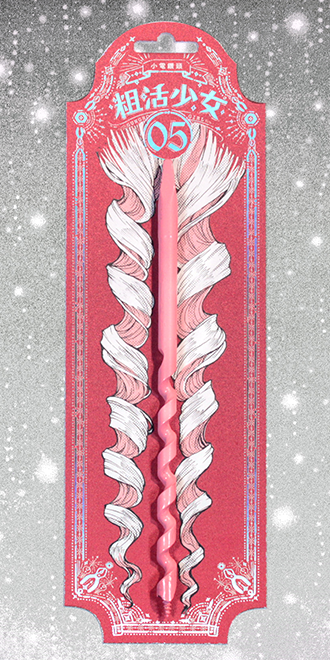
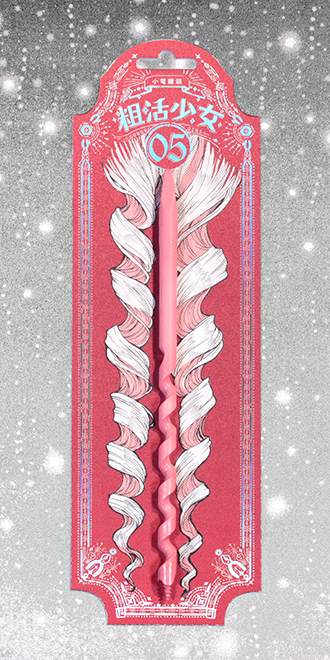
product
產品資訊修改 照片通用型

diff --git a/templates/works-pink.html b/templates/works-pink.html
@@ -10,6 +10,9 @@
     <div class="white-gradient"></div>
 </div>
 <div class="series-content">
+    <div class="item item-w2" ui-sref="products({product_id: 'pink1'})" ng-click="changePage()">
+        <img src="../image/pink/pink01-whole.png">
+    </div>
     <div class="item item-h2" ui-sref="products({product_id: 'pink10'})" ng-click="changePage()">
         <img src="../image/pink/pink10-whole.png">
     </div>
@@ -19,20 +22,21 @@
     <div class="item" ui-sref="products({product_id: 'pink14'})" ng-click="changePage()">
         <img src="../image/pink/pink14-whole.png">
     </div>
-    <div class="item item-w2" ui-sref="products({product_id: 'pink1'})" ng-click="changePage()">
-        <img src="../image/pink/pink01-whole.png">
-    </div>
-    <div class="item item-w2 item-h2" ui-sref="products({product_id: 'pink12'})" ng-click="changePage()">
-        <img src="../image/pink/pink12-whole.png">
-    </div>
     <div class="item item-w2" ui-sref="products({product_id: 'pink3'})" ng-click="changePage()">
         <img src="../image/pink/pink03-whole.png">
     </div>
     <div class="item item-h2" ui-sref="products({product_id: 'pink4'})" ng-click="changePage()">
         <img src="../image/pink/pink04-whole.png">
     </div>
-    <div class="item" ui-sref="products({product_id: 'pink8'})" ng-click="changePage()">
-        <img src="../image/pink/pink08-whole.png">
+    <div class="item item-h2" ui-sref="products({product_id: 'pink5'})" ng-click="changePage()">
+        <img src="../image/pink/pink05-whole.png">
     </div>
+    <div class="item item-w2 item-h2" ui-sref="products({product_id: 'pink12'})" ng-click="changePage()">
+        <img src="../image/pink/pink12-whole.png">
+    </div>
+    <div class="item item-h2" ui-sref="products({product_id: 'pink16'})" ng-click="changePage()">
+        <img src="../image/pink/pink16-whole.png">
+    </div>
+
 
 </div>

diff --git a/templates/works-blue.html b/templates/works-blue.html
@@ -10,13 +10,16 @@
     <div class="white-gradient"></div>
 </div>
 <div class="series-content">
-    <div class="item item-h2 item-w2" ui-sref="products({product_id: 'blue6'})" ng-click="changePage()">
-        <img src="../image/blue/blue06-whole.png">
-    </div>
     <div class="item" ui-sref="products({product_id: 'blue1'})" ng-click="changePage()">
         <img src="../image/blue/blue01-whole.png">
     </div>
     <div class="item" ui-sref="products({product_id: 'blue9'})" ng-click="changePage()">
         <img src="../image/blue/blue09-whole.png">
+    </div>
+    <div class="item item-h2 item-w2" ui-sref="products({product_id: 'blue6'})" ng-click="changePage()">
+        <img src="../image/blue/blue06-whole.png">
+    </div>
+    <div class="item item-h2" ui-sref="products({product_id: 'blue5'})" ng-click="changePage()">
+        <img src="../image/blue/blue05-whole.png">
     </div>
 </div>

diff --git a/css/custom.css b/css/custom.css
@@ -633,11 +633,14 @@ footer > .footer-menus {
         transform: rotate(-45deg) translate3d(9px,-15px,0);
     }
     h2 {
-        font-size: 40px;
-        line-height: 70px;
+        font-size: 50px;
+        line-height: 90px;
     }
     h3 {
         font-size: 25px;
+    }
+    h4 {
+        font-size: 20px;
     }
     section.concept {
         height: 90vh;
@@ -702,7 +705,8 @@ footer > .footer-menus {
         margin-bottom: 100px;
     }
     .series-title {
-        top: 50%;
+        top: 40%;
+        left: 17%;
     }
     @keyframes title {
     from {
@@ -711,9 +715,13 @@ footer > .footer-menus {
     }
     to {
         opacity: 1;
-        top: 50%;
+        top: 40%;
     }
-}
+    }
+    .number {
+        font-size: 65px;
+        letter-spacing: 8px;
+    }
     .information {
         width: 80%;
         margin: 0 auto;

diff --git a/templates/works-purple.html b/templates/works-purple.html
@@ -31,7 +31,7 @@
     <div class="item item-w2" ui-sref="products({product_id: 'purple13'})" ng-click="changePage()">
         <img src="../image/purple/purple13-whole.png">
     </div>
-    <div class="item" ui-sref="products({product_id: 'purple2'})" ng-click="changePage()">
-        <img src="../image/purple/purple07-whole.png">
+    <div class="item" ui-sref="products({product_id: 'purple6'})" ng-click="changePage()">
+        <img src="../image/purple/purple06-whole.png">
     </div>
 </div>
